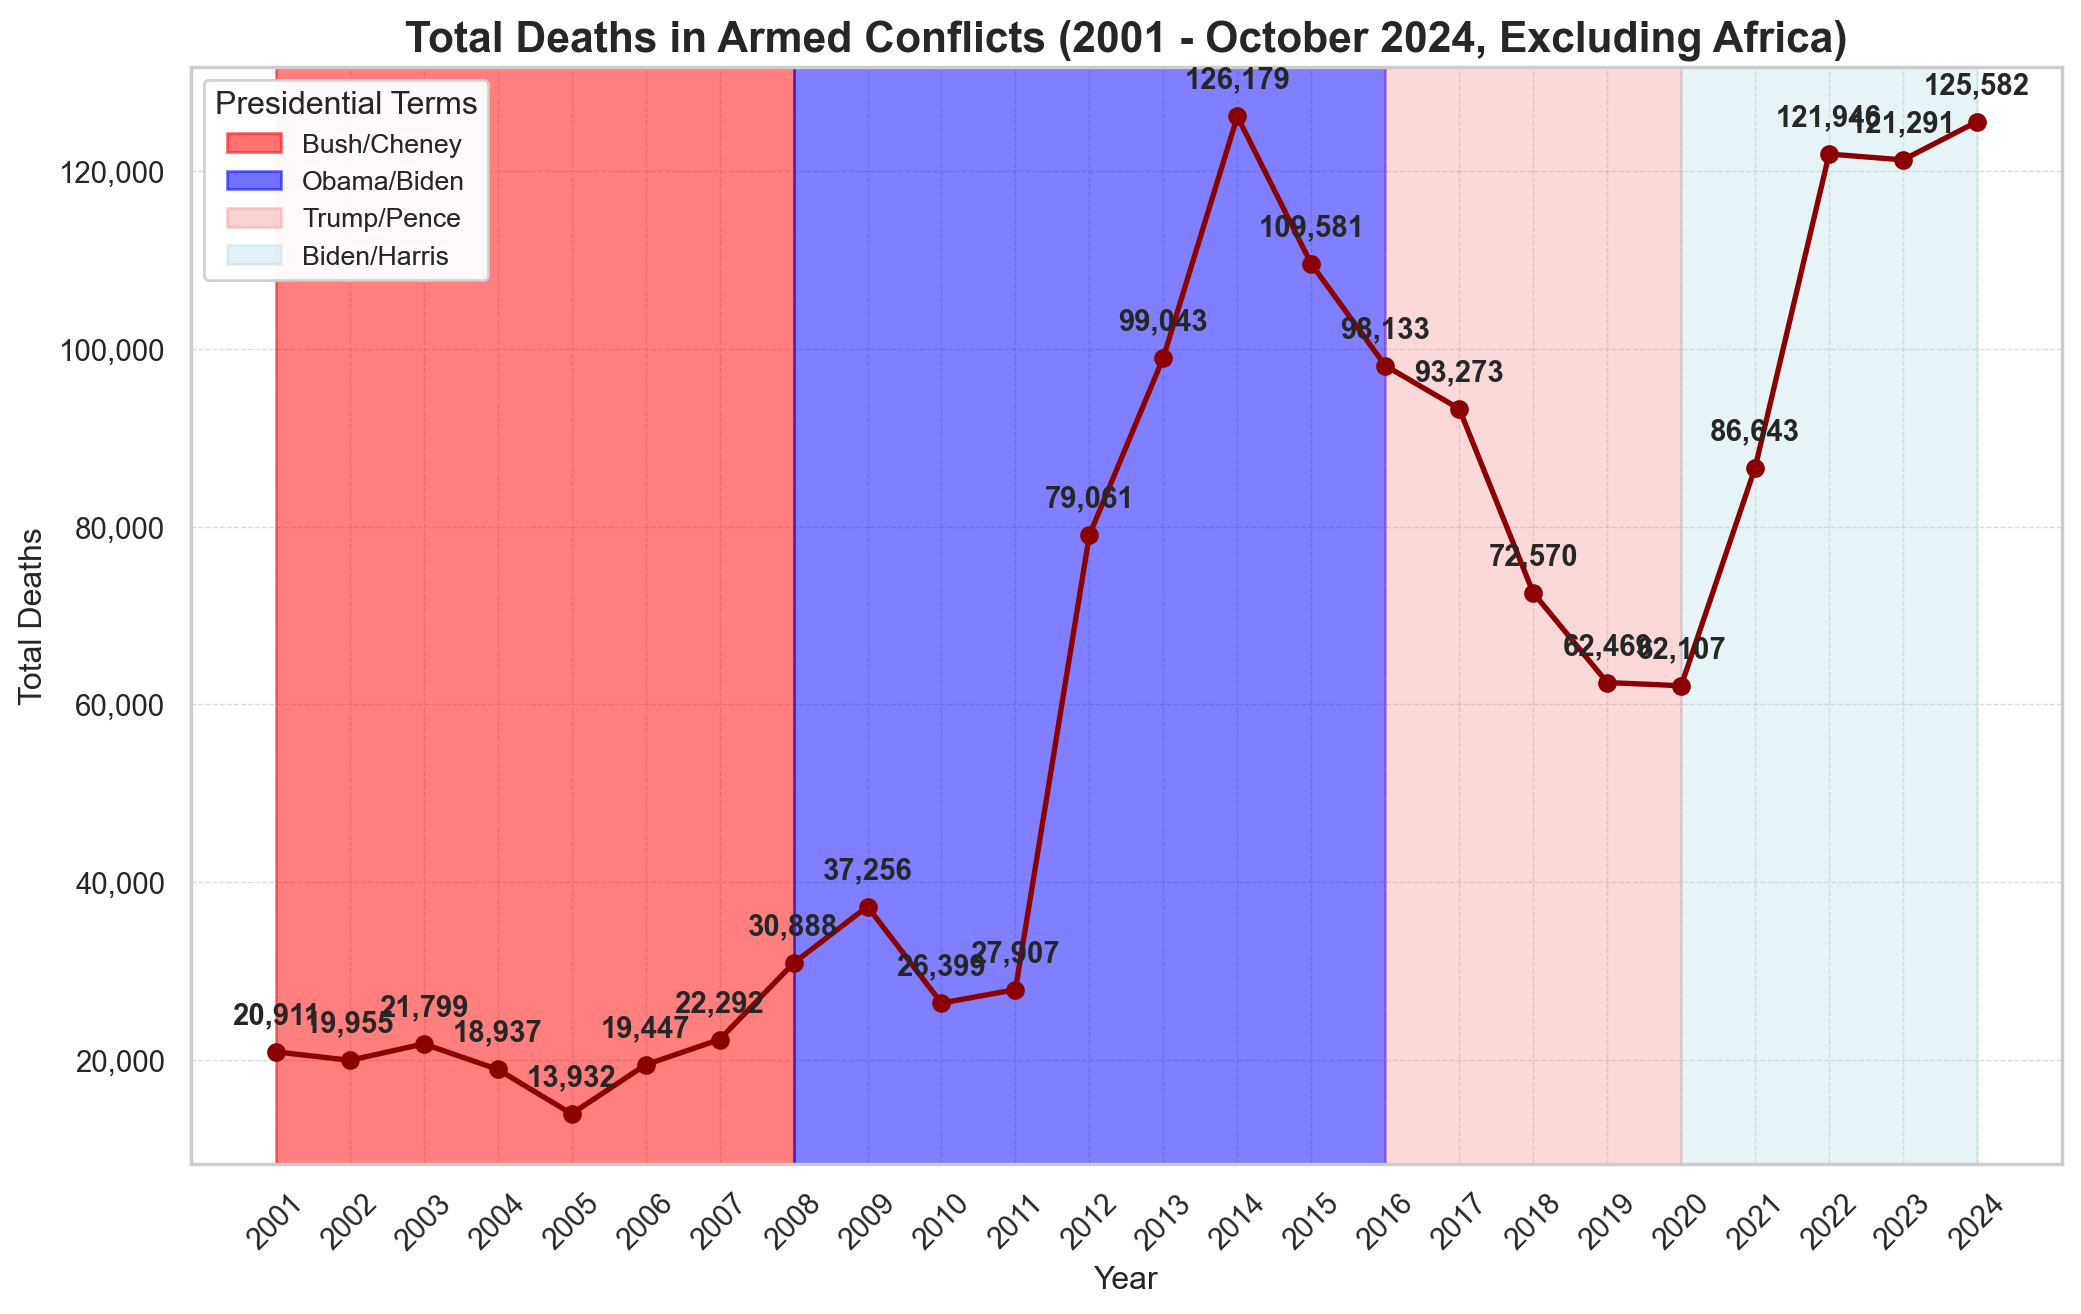
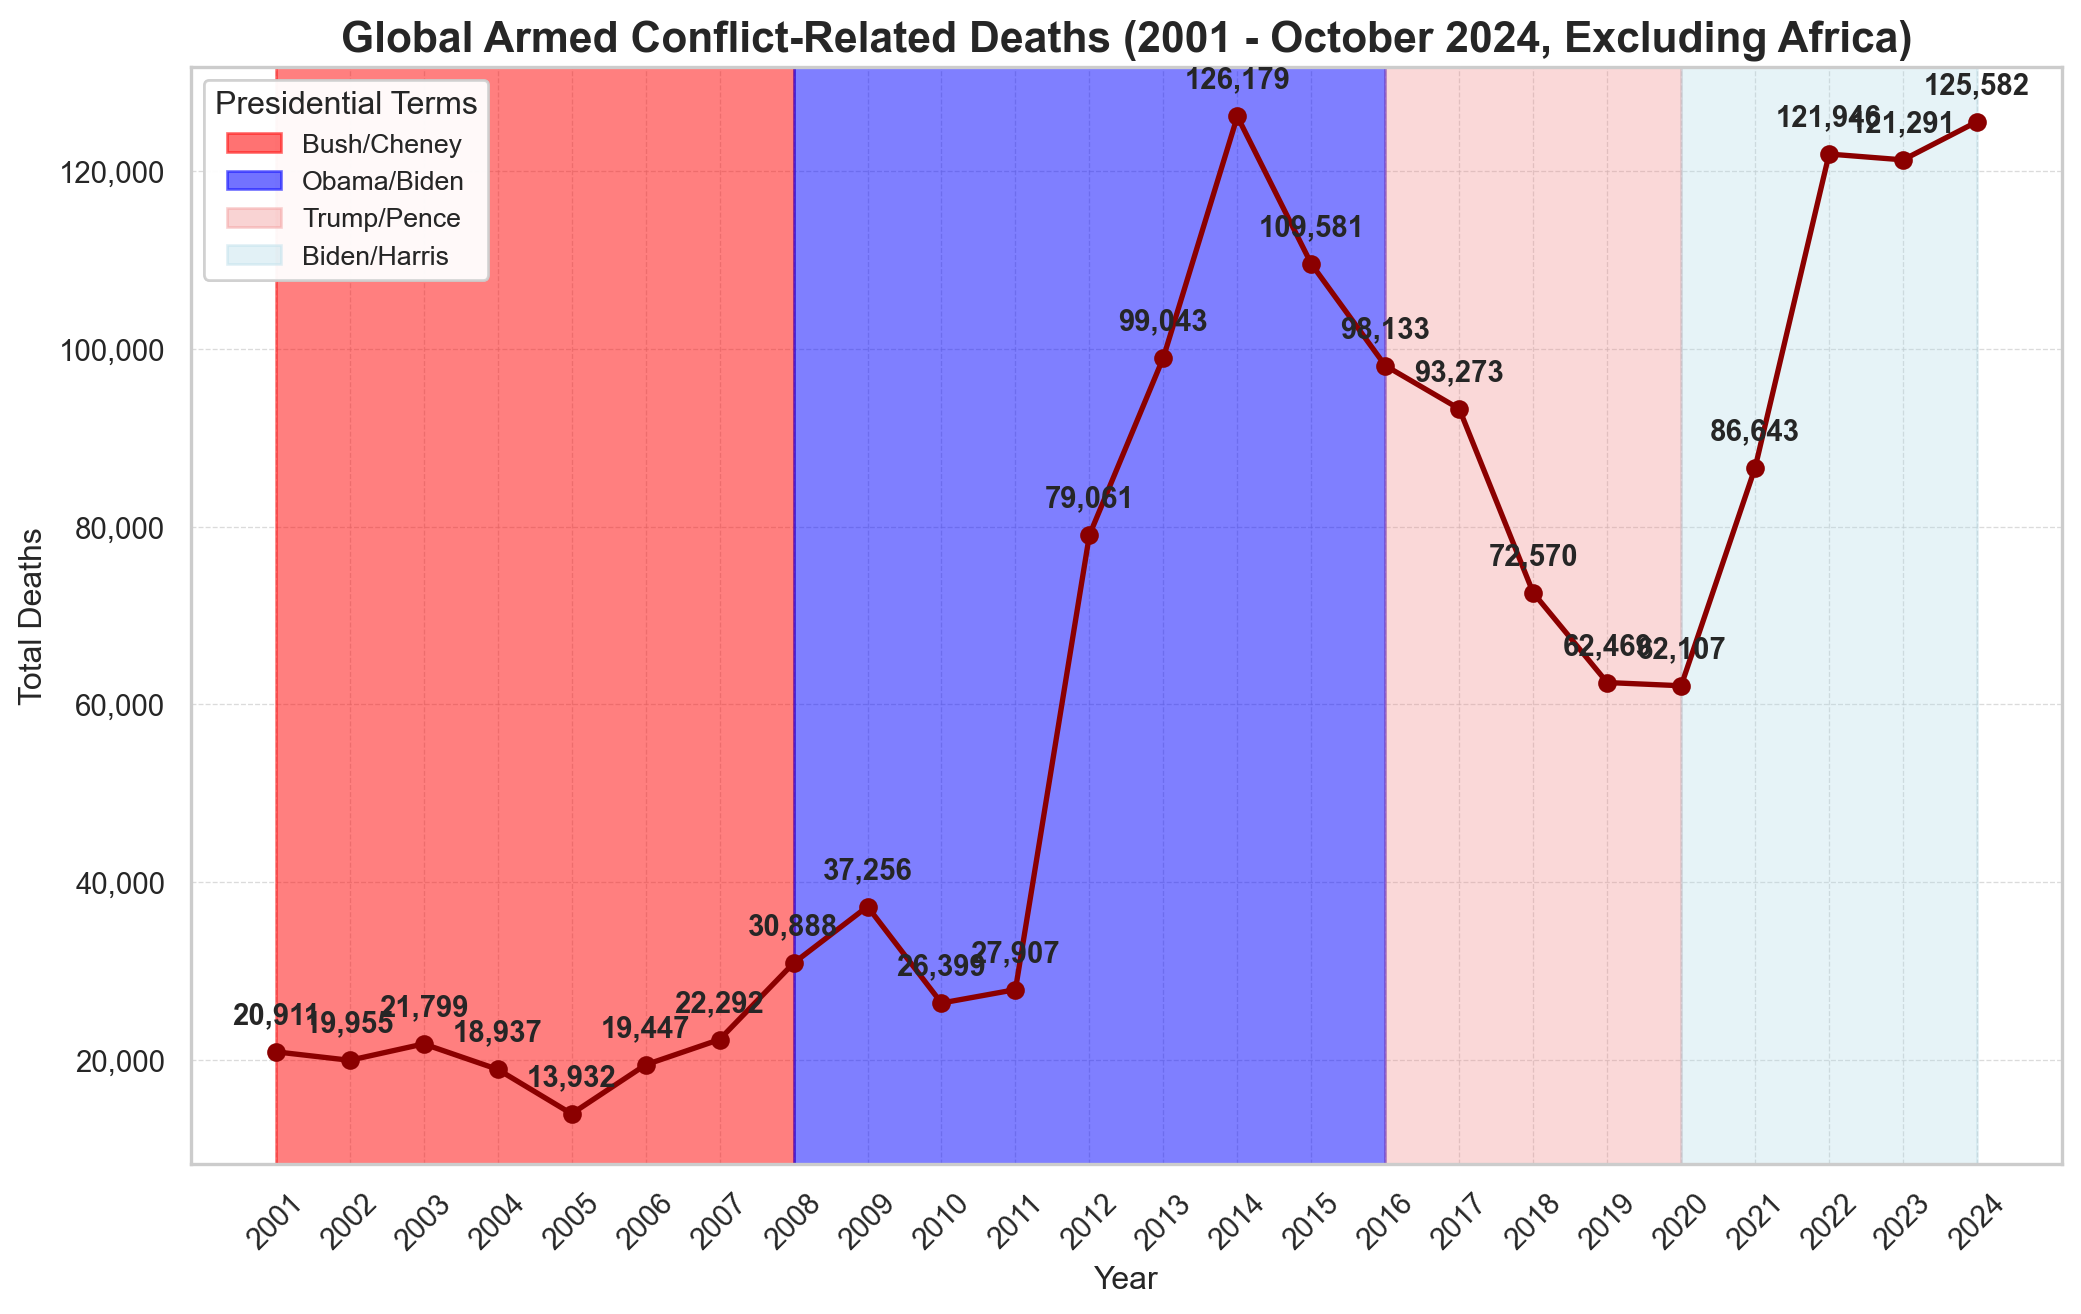
TITLES

Changed region(s): [[0.1562, 0.0, 0.9058, 0.0624]]

diff --git a/docs/index.html b/docs/index.html
@@ -158,8 +158,8 @@ pre > code.sourceCode > span > a:first-child::before { text-decoration: underlin
 </header>
 
 
-<section id="casualties-of-armed-conflicts" class="level1">
-<h1><strong>CASUALTIES OF ARMED CONFLICTS</strong></h1>
+<section id="global-armed-conflict-related-deaths" class="level1">
+<h1><strong>GLOBAL ARMED CONFLICT-RELATED DEATHS</strong></h1>
 <hr>
 <div id="cell-graph" class="cell" data-execution_count="2">
 <details class="code-fold">
@@ -226,7 +226,7 @@ pre > code.sourceCode > span > a:first-child::before { text-decoration: underlin
 <span id="cb1-60"><a href="#cb1-60" aria-hidden="true" tabindex="-1"></a><span class="cf">for</span> x, y <span class="kw">in</span> <span class="bu">zip</span>(deaths_per_year[<span class="st">"year"</span>], deaths_per_year[<span class="st">"Total Deaths"</span>]):</span>
 <span id="cb1-61"><a href="#cb1-61" aria-hidden="true" tabindex="-1"></a>    plt.text(x, y <span class="op">+</span> <span class="bu">max</span>(deaths_per_year[<span class="st">"Total Deaths"</span>]) <span class="op">*</span> <span class="fl">0.02</span>, <span class="ss">f"</span><span class="sc">{</span>y<span class="sc">:,}</span><span class="ss">"</span>, ha<span class="op">=</span><span class="st">"center"</span>, va<span class="op">=</span><span class="st">"bottom"</span>, fontsize<span class="op">=</span><span class="dv">11</span>, weight<span class="op">=</span><span class="st">'bold'</span>)</span>
 <span id="cb1-62"><a href="#cb1-62" aria-hidden="true" tabindex="-1"></a></span>
-<span id="cb1-63"><a href="#cb1-63" aria-hidden="true" tabindex="-1"></a>plt.title(<span class="st">"Total Deaths in Armed Conflicts (2001 - October 2024, Excluding Africa)"</span>, fontsize<span class="op">=</span><span class="dv">16</span>, weight<span class="op">=</span><span class="st">'bold'</span>)</span>
+<span id="cb1-63"><a href="#cb1-63" aria-hidden="true" tabindex="-1"></a>plt.title(<span class="st">"Global Armed Conflict-Related Deaths (2001 - October 2024, Excluding Africa)"</span>, fontsize<span class="op">=</span><span class="dv">16</span>, weight<span class="op">=</span><span class="st">'bold'</span>)</span>
 <span id="cb1-64"><a href="#cb1-64" aria-hidden="true" tabindex="-1"></a>plt.xlabel(<span class="st">"Year"</span>, fontsize<span class="op">=</span><span class="dv">12</span>)</span>
 <span id="cb1-65"><a href="#cb1-65" aria-hidden="true" tabindex="-1"></a>plt.ylabel(<span class="st">"Total Deaths"</span>, fontsize<span class="op">=</span><span class="dv">12</span>)</span>
 <span id="cb1-66"><a href="#cb1-66" aria-hidden="true" tabindex="-1"></a></span>
@@ -463,7 +463,7 @@ pre > code.sourceCode > span > a:first-child::before { text-decoration: underlin
 </div>
 </section>
 <section id="co2-emissions" class="level1">
-<h1><strong>CO2 Emissions</strong></h1>
+<h1><strong>CO2 EMISSIONS</strong></h1>
 <div id="cell-graph4" class="cell" data-execution_count="5">
 <details class="code-fold">
 <summary>Show Code</summary>
